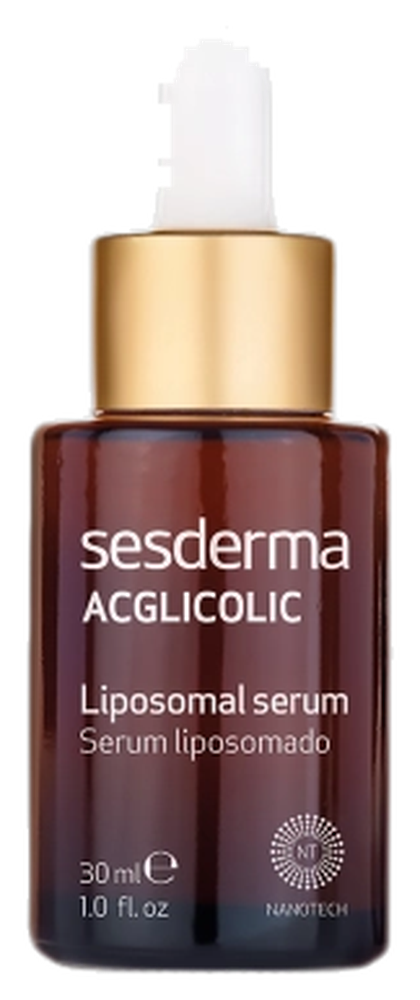
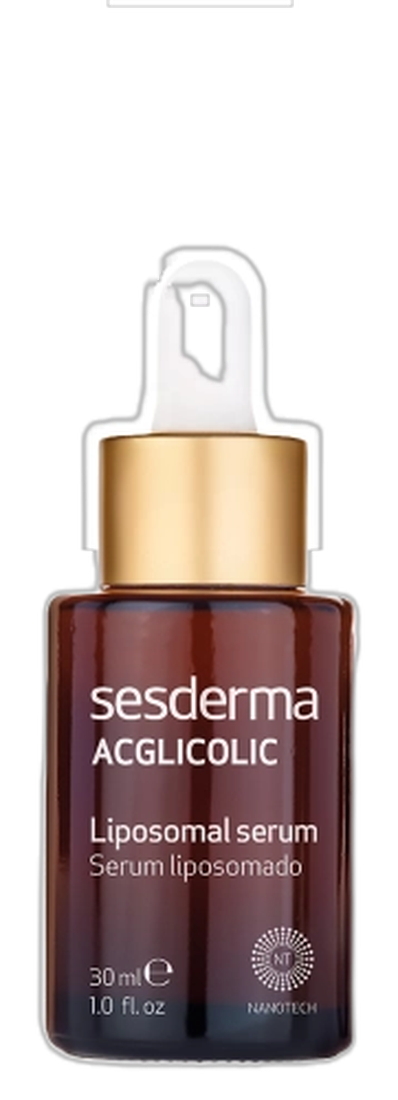
fix: restore Sesderma pipette tip and enlarge on homepage showcase

diff --git a/static/css/bundles/home.css b/static/css/bundles/home.css
@@ -998,11 +998,9 @@
 }
 
 .brand-showcase .container {
-  padding-inline: max(
-    var(--brand-gutter),
-    env(safe-area-inset-left, 0px),
-    env(safe-area-inset-right, 0px)
-  );
+  padding-inline: max(var(--brand-gutter),
+      env(safe-area-inset-left, 0px),
+      env(safe-area-inset-right, 0px));
 }
 
 .brand-showcase__scroll {
@@ -1186,6 +1184,12 @@
 .brand-panel--md-media .brand-panel__visual {
   max-width: 48%;
   max-height: calc(var(--brand-stage-h) * 0.62);
+}
+
+/* Sesderma / вузькі флакони — трохи більші за md */
+.brand-panel--md-media.brand-panel--right .brand-panel__visual {
+  max-width: 56%;
+  max-height: calc(var(--brand-stage-h) * 0.72);
 }
 
 .brand-panel--sm-media .brand-panel__visual {

diff --git a/static/css/components/brand_showcase.css b/static/css/components/brand_showcase.css
@@ -16,11 +16,9 @@
 }
 
 .brand-showcase .container {
-  padding-inline: max(
-    var(--brand-gutter),
-    env(safe-area-inset-left, 0px),
-    env(safe-area-inset-right, 0px)
-  );
+  padding-inline: max(var(--brand-gutter),
+      env(safe-area-inset-left, 0px),
+      env(safe-area-inset-right, 0px));
 }
 
 .brand-showcase__scroll {
@@ -204,6 +202,12 @@
 .brand-panel--md-media .brand-panel__visual {
   max-width: 48%;
   max-height: calc(var(--brand-stage-h) * 0.62);
+}
+
+/* Sesderma / вузькі флакони — трохи більші за md */
+.brand-panel--md-media.brand-panel--right .brand-panel__visual {
+  max-width: 56%;
+  max-height: calc(var(--brand-stage-h) * 0.72);
 }
 
 .brand-panel--sm-media .brand-panel__visual {

diff --git a/templates/core/partials/_brand_showcase.html b/templates/core/partials/_brand_showcase.html
@@ -11,7 +11,7 @@
       <div class="brand-showcase__stage" data-brand-stage>
         {% for brand in featured_brands %}
         <article
-          class="brand-panel{% if forloop.counter|divisibleby:2 %} brand-panel--right{% else %} brand-panel--left{% endif %}{% if forloop.counter == 1 or forloop.counter == 3 %} brand-panel--md-media{% elif forloop.counter == 2 %} brand-panel--sm-media{% endif %}"
+          class="brand-panel{% if forloop.counter|divisibleby:2 %} brand-panel--right{% else %} brand-panel--left{% endif %} brand-panel--md-media"
           data-brand-panel
           data-brand-index="{{ forloop.counter0 }}"
           {% if not forloop.first %}aria-hidden="true"{% endif %}
